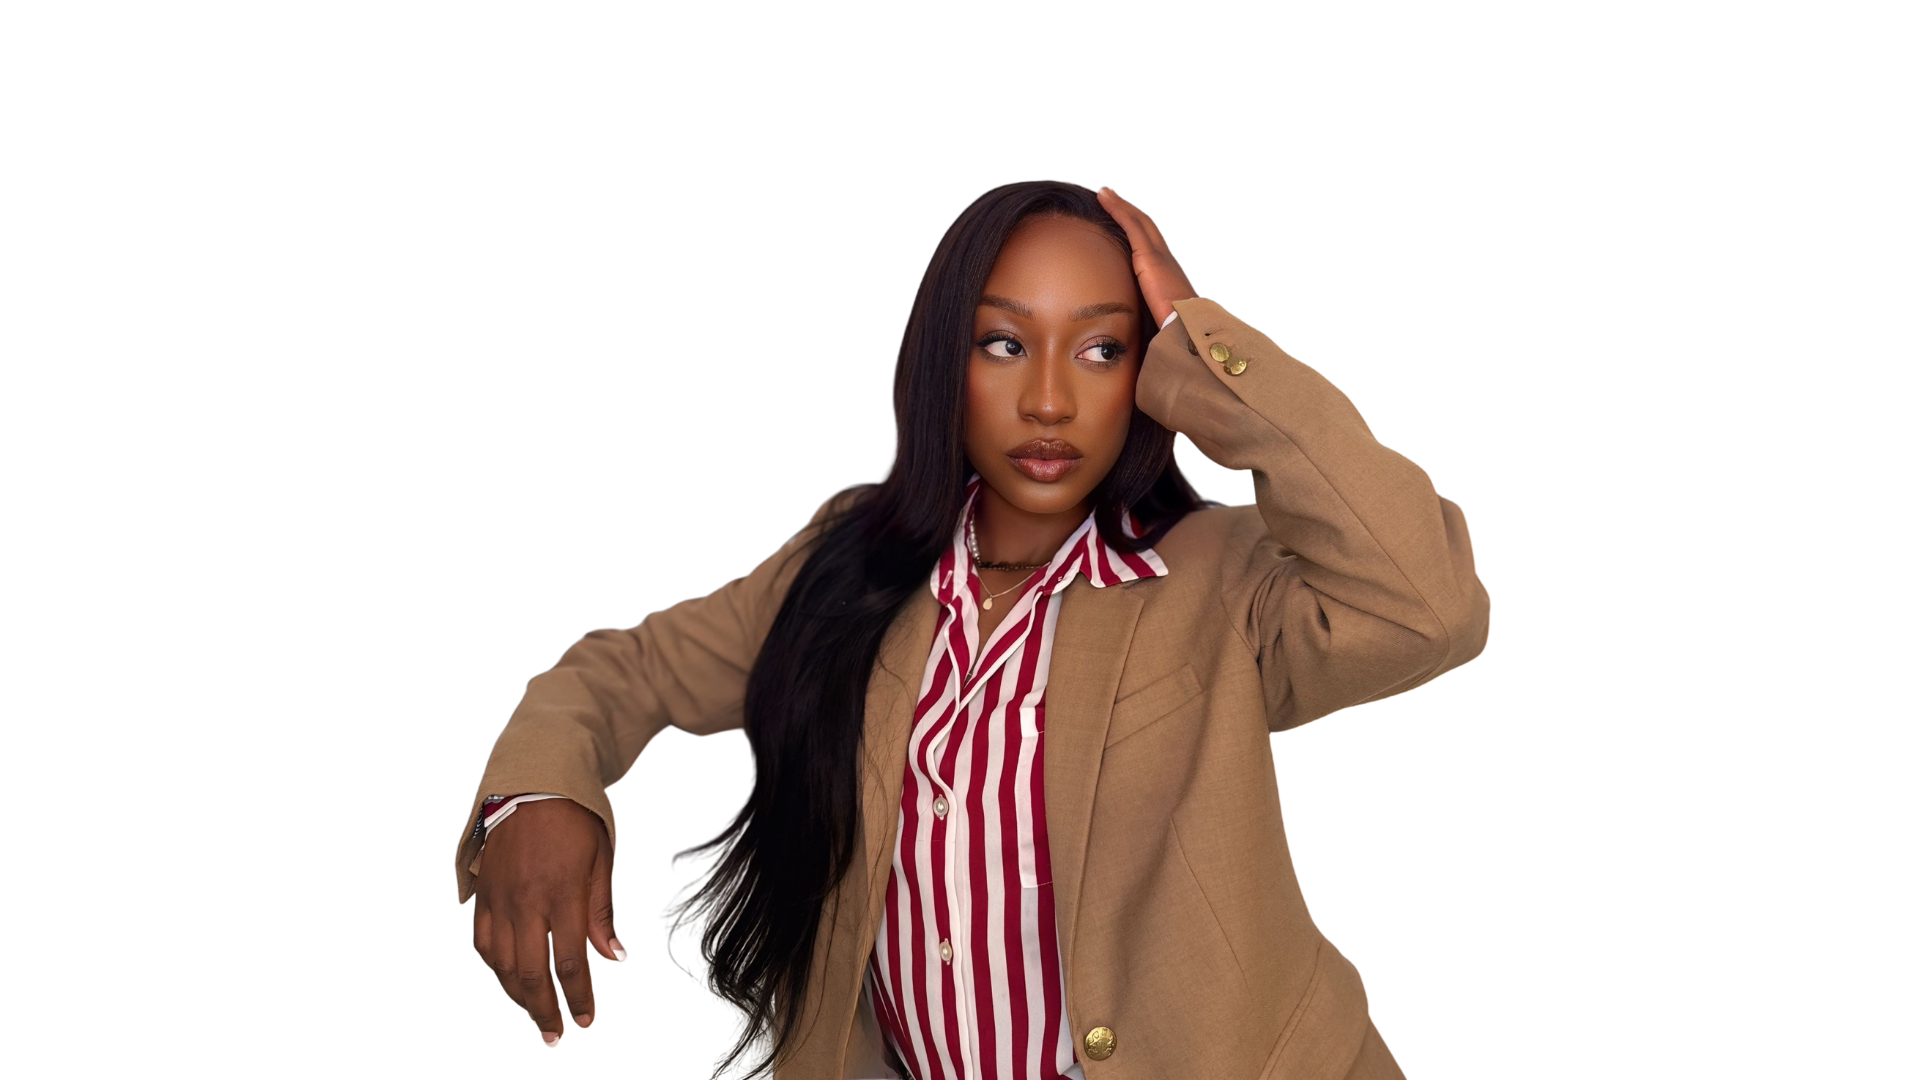
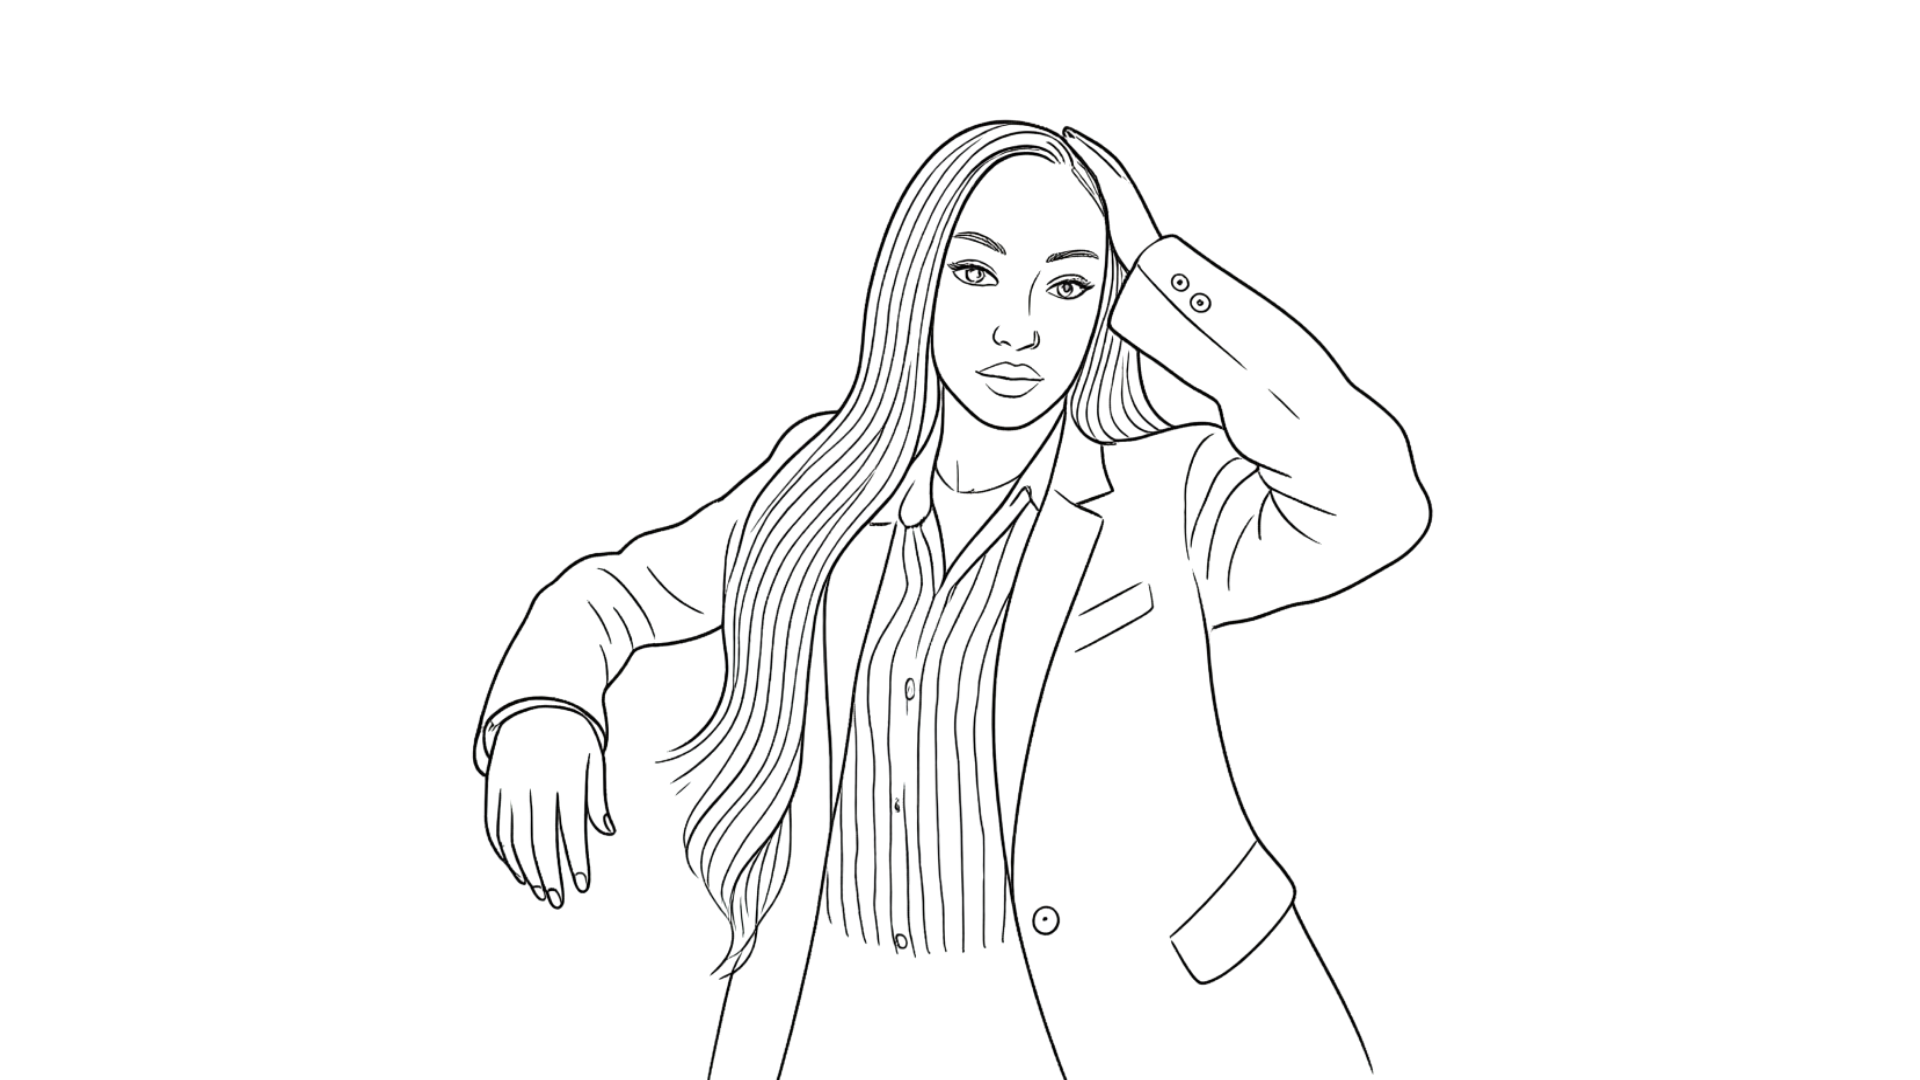
commit

Changed region(s): [[0.2188, 0.0917, 0.7812, 1.0]]

diff --git a/portfolio.html b/portfolio.html
@@ -354,7 +354,7 @@
       </div>
       <!-- Image 9 -->
       <div class="portfolio-card">
-        <img src="img9.png" alt="Model Look 9">
+        <img src="img9.jpg" alt="Model Look 9">
         <div class="card-overlay"><div class="overlay-text"><span class="overlay-title">Look #09</span><span class="overlay-description">Clean lines and polished accessories</span></div></div>
       </div>
       <!-- Image 10 -->
@@ -369,7 +369,7 @@
       </div>
       <!-- Image 12 -->
       <div class="portfolio-card">
-        <img src="img12.png" alt="Model Look 12">
+        <img src="img12.jpg" alt="Model Look 12">
         <div class="card-overlay"><div class="overlay-text"><span class="overlay-title">Look #12</span><span class="overlay-description">Editorial cool with statement earrings</span></div></div>
       </div>
     </div>
